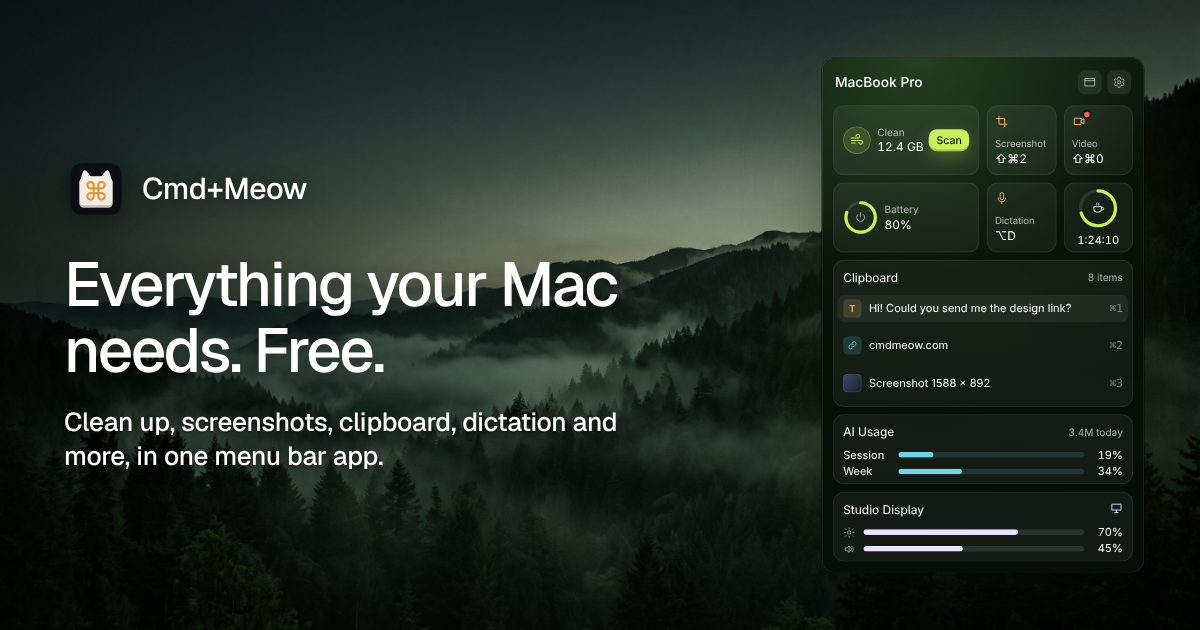
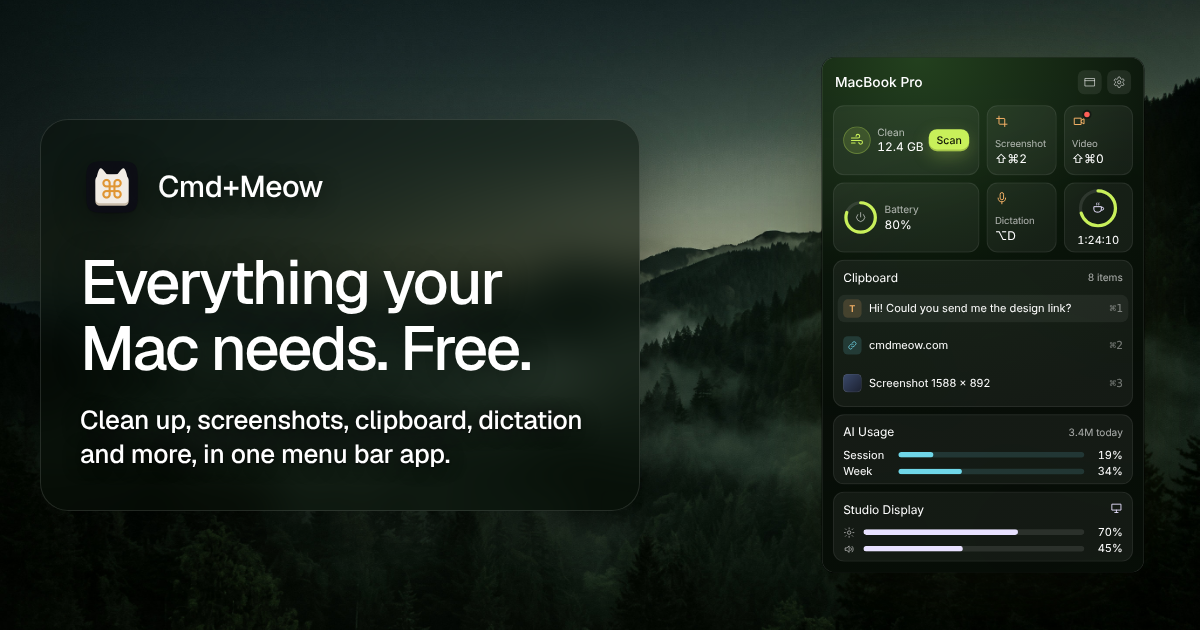
Site: CleanMyMac pill instead of the 'Instead of' row, Replay button instead of the counter, readable OG card
- Hero: the 'Instead of …' row is gone; 'CleanMyMac alternative' is the first pill
- Footer trademark line names only CleanMyMac
- 14→1 scene: no '14 apps → 1 app' counter; a Replay button sits inside the picture
- OG image: frosted panel behind the title so it reads on the wallpaper

Claude-Session: https://claude.ai/code/session_01384rfUvGjRvQfkWDC1s1ix

Changed region(s): [[0.0308, 0.181, 0.555, 0.8143]]

diff --git a/site/index.html b/site/index.html
@@ -20,9 +20,9 @@
 <link rel="preconnect" href="https://fonts.googleapis.com">
 <link rel="preconnect" href="https://fonts.gstatic.com" crossorigin>
 <link rel="stylesheet" href="https://fonts.googleapis.com/css2?family=Geist:wght@400;500;600&display=swap">
-<link rel="stylesheet" href="app.css?v=81">
-<link rel="stylesheet" href="style.css?v=81">
-<link rel="stylesheet" href="win.css?v=81">
+<link rel="stylesheet" href="app.css?v=82">
+<link rel="stylesheet" href="style.css?v=82">
+<link rel="stylesheet" href="win.css?v=82">
 <link rel="preload" as="image" href="desk.jpg" imagesrcset="desk-1376.jpg 1376w, desk.jpg 2752w" imagesizes="100vw">
 </head>
 <body>
@@ -35,7 +35,7 @@
     <div class="hero">
       <h1>Everything your Mac needs. Free.</h1>
       <p class="sub">Clean up, screenshots, clipboard, dictation and more, in one menu bar app.</p>
-      <div class="cta"><a class="btn pri" id="get" href="https://github.com/romanfurman6/cmdmeow/releases/latest/download/CmdMeow.dmg"><svg class="ph" width="18" height="18" viewBox="0 0 256 256" aria-hidden="true"><path d="M224,144v64a8,8,0,0,1-8,8H40a8,8,0,0,1-8-8V144a8,8,0,0,1,16,0v56H208V144a8,8,0,0,1,16,0Zm-101.66,5.66a8,8,0,0,0,11.32,0l40-40a8,8,0,0,0-11.32-11.32L136,124.69V32a8,8,0,0,0-16,0v92.69L93.66,98.34a8,8,0,0,0-11.32,11.32Z"/></svg>Download for Mac</a><a class="btn ghost" href="https://github.com/romanfurman6/cmdmeow"><svg class="ph" width="18" height="18" viewBox="0 0 256 256" aria-hidden="true"><path d="M208.31,75.68A59.78,59.78,0,0,0,202.93,28,8,8,0,0,0,196,24a59.75,59.75,0,0,0-48,24H124A59.75,59.75,0,0,0,76,24a8,8,0,0,0-6.93,4,59.78,59.78,0,0,0-5.38,47.68A58.14,58.14,0,0,0,56,104v8a56.06,56.06,0,0,0,48.44,55.47A39.8,39.8,0,0,0,96,192v8H72a24,24,0,0,1-24-24A40,40,0,0,0,8,136a8,8,0,0,0,0,16,24,24,0,0,1,24,24,40,40,0,0,0,40,40H96v16a8,8,0,0,0,16,0V192a24,24,0,0,1,48,0v40a8,8,0,0,0,16,0V192a39.8,39.8,0,0,0-8.44-24.53A56.06,56.06,0,0,0,216,112v-8A58.14,58.14,0,0,0,208.31,75.68ZM200,112a40,40,0,0,1-40,40H112a40,40,0,0,1-40-40v-8a41.74,41.74,0,0,1,6.9-22.48A8,8,0,0,0,80,73.83a43.81,43.81,0,0,1,.79-33.58,43.88,43.88,0,0,1,32.32,20.06A8,8,0,0,0,119.82,64h32.35a8,8,0,0,0,6.74-3.69,43.87,43.87,0,0,1,32.32-20.06A43.81,43.81,0,0,1,192,73.83a8.09,8.09,0,0,0,1,7.65A41.72,41.72,0,0,1,200,104Z"/></svg>GitHub</a></div><p class="alt">Instead of CleanMyMac · CleanShot X · Paste · iStat Menus · Wispr Flow · DaisyDisk · Loom</p><div class="facts"><span>No account</span><span>macOS 12+</span><a class="ver" href="https://github.com/romanfurman6/cmdmeow/releases/tag/v0.1.1">v0.1.1</a></div>
+      <div class="cta"><a class="btn pri" id="get" href="https://github.com/romanfurman6/cmdmeow/releases/latest/download/CmdMeow.dmg"><svg class="ph" width="18" height="18" viewBox="0 0 256 256" aria-hidden="true"><path d="M224,144v64a8,8,0,0,1-8,8H40a8,8,0,0,1-8-8V144a8,8,0,0,1,16,0v56H208V144a8,8,0,0,1,16,0Zm-101.66,5.66a8,8,0,0,0,11.32,0l40-40a8,8,0,0,0-11.32-11.32L136,124.69V32a8,8,0,0,0-16,0v92.69L93.66,98.34a8,8,0,0,0-11.32,11.32Z"/></svg>Download for Mac</a><a class="btn ghost" href="https://github.com/romanfurman6/cmdmeow"><svg class="ph" width="18" height="18" viewBox="0 0 256 256" aria-hidden="true"><path d="M208.31,75.68A59.78,59.78,0,0,0,202.93,28,8,8,0,0,0,196,24a59.75,59.75,0,0,0-48,24H124A59.75,59.75,0,0,0,76,24a8,8,0,0,0-6.93,4,59.78,59.78,0,0,0-5.38,47.68A58.14,58.14,0,0,0,56,104v8a56.06,56.06,0,0,0,48.44,55.47A39.8,39.8,0,0,0,96,192v8H72a24,24,0,0,1-24-24A40,40,0,0,0,8,136a8,8,0,0,0,0,16,24,24,0,0,1,24,24,40,40,0,0,0,40,40H96v16a8,8,0,0,0,16,0V192a24,24,0,0,1,48,0v40a8,8,0,0,0,16,0V192a39.8,39.8,0,0,0-8.44-24.53A56.06,56.06,0,0,0,216,112v-8A58.14,58.14,0,0,0,208.31,75.68ZM200,112a40,40,0,0,1-40,40H112a40,40,0,0,1-40-40v-8a41.74,41.74,0,0,1,6.9-22.48A8,8,0,0,0,80,73.83a43.81,43.81,0,0,1,.79-33.58,43.88,43.88,0,0,1,32.32,20.06A8,8,0,0,0,119.82,64h32.35a8,8,0,0,0,6.74-3.69,43.87,43.87,0,0,1,32.32-20.06A43.81,43.81,0,0,1,192,73.83a8.09,8.09,0,0,0,1,7.65A41.72,41.72,0,0,1,200,104Z"/></svg>GitHub</a></div><div class="facts"><span>CleanMyMac alternative</span><span>No account</span><span>macOS 12+</span><a class="ver" href="https://github.com/romanfurman6/cmdmeow/releases/tag/v0.1.1">v0.1.1</a></div>
     </div>
     <div class="drop"><div class="app pnl">
   <div class="ph2"><b>MacBook Pro</b><span class="ib"><svg class="i" width="14" height="14" viewBox="0 0 24 24" aria-hidden="true"><path d="M3 5h18v14H3zM3 9h18"/></svg></span><span class="ib"><svg class="i" width="14" height="14" viewBox="0 0 24 24" aria-hidden="true"><path d="M12.22 2h-.44a2 2 0 0 0-2 2v.18a2 2 0 0 1-1 1.73l-.43.25a2 2 0 0 1-2 0l-.15-.08a2 2 0 0 0-2.73.73l-.22.38a2 2 0 0 0 .73 2.73l.15.1a2 2 0 0 1 1 1.72v.51a2 2 0 0 1-1 1.74l-.15.09a2 2 0 0 0-.73 2.73l.22.38a2 2 0 0 0 2.73.73l.15-.08a2 2 0 0 1 2 0l.43.25a2 2 0 0 1 1 1.73V20a2 2 0 0 0 2 2h.44a2 2 0 0 0 2-2v-.18a2 2 0 0 1 1-1.73l.43-.25a2 2 0 0 1 2 0l.15.08a2 2 0 0 0 2.73-.73l.22-.39a2 2 0 0 0-.73-2.73l-.15-.08a2 2 0 0 1-1-1.74v-.5a2 2 0 0 1 1-1.74l.15-.09a2 2 0 0 0 .73-2.73l-.22-.38a2 2 0 0 0-2.73-.73l-.15.08a2 2 0 0 1-2 0l-.43-.25a2 2 0 0 1-1-1.73V4a2 2 0 0 0-2-2zM12 9a3 3 0 1 0 0 6 3 3 0 0 0 0-6z"/></svg></span></div>
@@ -45,7 +45,7 @@
   </div>
 </section>
 <main>
-<section class="repl wrap"><h2>One place for every task</h2><div class="bars" id="bars"><figure class="scr"><figcaption><b class="num" id="bars-n" aria-live="polite">14 apps</b><button type="button" class="replay" id="bars-again" hidden aria-label="Play again"><svg width="16" height="16" viewBox="0 0 24 24" aria-hidden="true"><path d="M4.5 12a7.5 7.5 0 1 0 2.2-5.3M4.5 4v4h4" fill="none" stroke="currentColor" stroke-width="1.8" stroke-linecap="round" stroke-linejoin="round"/></svg></button></figcaption><div class="mbx"><span class="mn"><b>Finder</b><span>File</span><span>Edit</span><span>View</span><span>Go</span></span><span class="icons"><span class="mi2 ap" title="Cleaner" data-i="0"><svg class="i" width="16" height="16" viewBox="0 0 24 24" aria-hidden="true"><path d="M3 8.5h10.5a3 3 0 1 0-3-3M3 12.5h15a3 3 0 1 1-3 3M3 16.5h6"/></svg></span><span class="mi2 ap" title="Disk map" data-i="1"><svg class="i" width="16" height="16" viewBox="0 0 24 24" aria-hidden="true"><path d="M3.5 3.5h17v17h-17zM10 3.5v17M10 12h10.5"/></svg></span><span class="mi2 ap" title="Uninstaller" data-i="2"><svg class="i" width="16" height="16" viewBox="0 0 24 24" aria-hidden="true"><path d="M4 6.5h16M9 6.5V4h6v2.5M6 6.5l1 14h10l1-14"/></svg></span><span class="mi2 ap" title="Startup items" data-i="3"><svg class="i" width="16" height="16" viewBox="0 0 24 24" aria-hidden="true"><path d="M12 3v8M6.6 6.6a7.5 7.5 0 1 0 10.8 0"/></svg></span><span class="mi2 ap" title="Monitor" data-i="4"><svg class="i" width="16" height="16" viewBox="0 0 24 24" aria-hidden="true"><path d="M3 12h4l2.5-7 5 14 2.5-7h4"/></svg></span><span class="mi2 ap" title="AI usage" data-i="5"><svg class="i" width="16" height="16" viewBox="0 0 24 24" aria-hidden="true"><path d="M4.5 18a8.5 8.5 0 1 1 15 0M12 14l4-5"/></svg></span><span class="mi2 ap" title="Fans" data-i="6"><svg class="i" width="16" height="16" viewBox="0 0 24 24" aria-hidden="true"><path d="M12 12c-1-4 0-8 3-8s3 5-3 8zm0 0c4-1 8 0 8 3s-5 3-8-3zm0 0c1 4 0 8-3 8s-3-5 3-8zm0 0c-4 1-8 0-8-3s5-3 8 3z"/></svg></span><span class="mi2 ap" title="Screenshot" data-i="7"><svg class="i" width="16" height="16" viewBox="0 0 24 24" aria-hidden="true"><path d="M7 3v13a1 1 0 0 0 1 1h13M17 21V8a1 1 0 0 0-1-1H3"/></svg></span><span class="mi2 ap" title="Recorder" data-i="8"><svg class="i" width="16" height="16" viewBox="0 0 24 24" aria-hidden="true"><path d="M3.5 6.5h12v11h-12zM15.5 10.5l5-3v9l-5-3"/></svg></span><span class="mi2 ap" title="Sharing" data-i="9"><svg class="i" width="16" height="16" viewBox="0 0 24 24" aria-hidden="true"><path d="M10 14a4 4 0 0 0 5.7 0l3-3a4 4 0 0 0-5.7-5.7l-1 1M14 10a4 4 0 0 0-5.7 0l-3 3a4 4 0 0 0 5.7 5.7l1-1"/></svg></span><span class="mi2 ap" title="Dictation" data-i="10"><svg class="i" width="16" height="16" viewBox="0 0 24 24" aria-hidden="true"><path d="M9 4.5a3 3 0 0 1 6 0v6.5a3 3 0 0 1-6 0zM5.5 11a6.5 6.5 0 0 0 13 0M12 17.5V21"/></svg></span><span class="mi2 ap" title="Clipboard" data-i="11"><svg class="i" width="16" height="16" viewBox="0 0 24 24" aria-hidden="true"><path d="M9 3.5h6v3H9zM9 5H5.5v15.5h13V5H15"/></svg></span><span class="mi2 ap" title="Awake" data-i="12"><svg class="i" width="16" height="16" viewBox="0 0 24 24" aria-hidden="true"><path d="M4 10h13v4.5a5 5 0 0 1-5 5H9a5 5 0 0 1-5-5zM17 11h1.5a2.5 2.5 0 0 1 0 5H17M9 3.5c-1 1 1 2 0 3.5M12.5 3.5c-1 1 1 2 0 3.5"/></svg></span><span class="mi2 ap" title="Displays" data-i="13"><svg class="i" width="16" height="16" viewBox="0 0 24 24" aria-hidden="true"><path d="M3.5 4.5h17v11h-17zM9 20h6M12 15.5V20"/></svg></span><span class="mi2 cat" title="Cmd+Meow"><svg width="17" height="17"><use href="#mark-line"/></svg></span><span class="mi2 sy"><svg class="i" width="16" height="16" viewBox="0 0 24 24" aria-hidden="true"><path d="M2.5 9a14 14 0 0 1 19 0M5.5 12.5a9.5 9.5 0 0 1 13 0M8.5 16a5 5 0 0 1 7 0M12 19.5h.01"/></svg></span><span class="mi2 sy bat"><i></i></span><span class="clk num">Thu 17:32</span></span><div class="mpn" aria-hidden="true"><div class="mph"><b>MacBook Pro</b></div><div class="wgrid"><div class="wg s2" data-i="0"><span class="wi wr" style="--g:#C8F05A"><svg width="40" height="40" viewBox="0 0 40 40"><circle cx="20" cy="20" r="16" class="rb"/><circle cx="20" cy="20" r="16" class="rf" style="--o:28.1" transform="rotate(-90 20 20)"/></svg><svg class="i" width="14" height="14" viewBox="0 0 24 24" aria-hidden="true"><path d="M3 8.5h10.5a3 3 0 1 0-3-3M3 12.5h15a3 3 0 1 1-3 3M3 16.5h6"/></svg></span><span class="wt"><span class="dm">Clean</span><b class="num">12.4 GB</b></span><span class="wbtn">Scan</span></div><div class="wg s1" data-i="7"><span class="wi" style="--g:#F7B267"><svg class="i" width="15" height="15" viewBox="0 0 24 24" aria-hidden="true"><path d="M7 3v13a1 1 0 0 0 1 1h13M17 21V8a1 1 0 0 0-1-1H3"/></svg></span><span class="wt"><span class="dm">Screenshot</span><b class="num">⇧⌘2</b></span></div><div class="wg s1" data-i="8"><span class="wi" style="--g:#F7B267"><svg class="i" width="15" height="15" viewBox="0 0 24 24" aria-hidden="true"><path d="M3.5 6.5h12v11h-12zM15.5 10.5l5-3v9l-5-3"/></svg><i class="rec"></i></span><span class="wt"><span class="dm">Video</span><b class="num">⇧⌘0</b></span></div><div class="wg s2" data-i="5"><span class="wi" style="--g:#6FD6E8"><svg class="i" width="16" height="16" viewBox="0 0 24 24" aria-hidden="true"><path d="M4.5 18a8.5 8.5 0 1 1 15 0M12 14l4-5"/></svg></span><span class="wt"><span class="dsh"><span class="dm">AI Usage</span><span class="num">19%</span></span><span class="aib"><i style="--w:19%"></i></span></span></div><div class="wg s1" data-i="4"><span class="wi wr" style="--g:#6FD6E8"><svg width="40" height="40" viewBox="0 0 40 40"><circle cx="20" cy="20" r="16" class="rb"/><circle cx="20" cy="20" r="16" class="rf" style="--o:76.4" transform="rotate(-90 20 20)"/></svg><svg class="i" width="14" height="14" viewBox="0 0 24 24" aria-hidden="true"><path d="M3 12h4l2.5-7 5 14 2.5-7h4"/></svg></span><span class="wt"><span class="dm">CPU</span><b class="num">24%</b></span></div><div class="wg s1" data-i="6"><span class="wi" style="--g:#6FD6E8"><svg class="i" width="15" height="15" viewBox="0 0 24 24" aria-hidden="true"><path d="M12 12c-1-4 0-8 3-8s3 5-3 8zm0 0c4-1 8 0 8 3s-5 3-8-3zm0 0c1 4 0 8-3 8s-3-5 3-8zm0 0c-4 1-8 0-8-3s5-3 8 3z"/></svg></span><span class="wt"><span class="dm">Fans</span><b class="num">2 225</b></span></div><div class="wg s1" data-i="1"><span class="wi wr" style="--g:#C8F05A"><svg width="40" height="40" viewBox="0 0 40 40" aria-hidden="true"><circle class="rb" cx="20" cy="20" r="16"/><circle class="rf" cx="20" cy="20" r="16" style="--o:38.2" transform="rotate(-90 20 20)"/></svg><svg class="i" width="14" height="14" viewBox="0 0 24 24" aria-hidden="true"><path d="M3.5 3.5h17v17h-17zM10 3.5v17M10 12h10.5"/></svg></span><span class="wt"><span class="dm">Disk</span><b class="num">62%</b></span></div><div class="wg s1" data-i="2"><span class="wi" style="--g:#C8F05A"><svg class="i" width="15" height="15" viewBox="0 0 24 24" aria-hidden="true"><path d="M4 6.5h16M9 6.5V4h6v2.5M6 6.5l1 14h10l1-14"/></svg></span><span class="wt"><span class="dm">Uninstall</span><b class="num">3 apps</b></span></div><div class="wg s1" data-i="3"><span class="wi" style="--g:#C8F05A"><svg class="i" width="16" height="16" viewBox="0 0 24 24" aria-hidden="true"><path d="M12 3v8M6.6 6.6a7.5 7.5 0 1 0 10.8 0"/></svg></span><span class="wt"><span class="dm">Startup</span><b class="num">9 items</b></span></div><div class="wg s1" data-i="12"><span class="wi wr" style="--g:#C8F05A"><svg width="40" height="40" viewBox="0 0 40 40"><circle cx="20" cy="20" r="16" class="rb"/><circle cx="20" cy="20" r="16" class="rf" style="--o:0.0" transform="rotate(-90 20 20)"/></svg><svg class="i" width="14" height="14" viewBox="0 0 24 24" aria-hidden="true"><path d="M4 10h13v4.5a5 5 0 0 1-5 5H9a5 5 0 0 1-5-5zM17 11h1.5a2.5 2.5 0 0 1 0 5H17M9 3.5c-1 1 1 2 0 3.5M12.5 3.5c-1 1 1 2 0 3.5"/></svg></span><span class="wt"><span class="dm">Awake</span><b class="num">1:24</b></span></div><div class="wg s1" data-i="11"><span class="wi" style="--g:#F7B267"><svg class="i" width="15" height="15" viewBox="0 0 24 24" aria-hidden="true"><path d="M9 3.5h6v3H9zM9 5H5.5v15.5h13V5H15"/></svg></span><span class="wt"><span class="dm">Clipboard</span><b class="num">8 items</b></span></div><div class="wg s1" data-i="10"><span class="wi" style="--g:#F7B267"><svg class="i" width="15" height="15" viewBox="0 0 24 24" aria-hidden="true"><path d="M9 4.5a3 3 0 0 1 6 0v6.5a3 3 0 0 1-6 0zM5.5 11a6.5 6.5 0 0 0 13 0M12 17.5V21"/></svg></span><span class="wt"><span class="dm">Dictation</span><span class="wave2"><i></i><i></i><i></i><i></i><i></i></span></span></div><div class="wg s1" data-i="9"><span class="wi" style="--g:#F7B267"><svg class="i" width="16" height="16" viewBox="0 0 24 24" aria-hidden="true"><path d="M10 14a4 4 0 0 0 5.7 0l3-3a4 4 0 0 0-5.7-5.7l-1 1M14 10a4 4 0 0 0-5.7 0l-3 3a4 4 0 0 0 5.7 5.7l1-1"/></svg></span><span class="wt"><span class="dm">Sharing</span><b class="num">3 links</b></span></div><div class="wg s1" data-i="13"><span class="wi" style="--g:#E8E1FF"><svg class="i" width="16" height="16" viewBox="0 0 24 24" aria-hidden="true"><path d="M3.5 4.5h17v11h-17zM9 20h6M12 15.5V20"/></svg></span><span class="wt"><span class="dm">Display</span><b class="num">70%</b></span></div></div></div></div></figure></div></section>
+<section class="repl wrap"><h2>One place for every task</h2><div class="bars" id="bars"><figure class="scr"><div class="mbx"><span class="mn"><b>Finder</b><span>File</span><span>Edit</span><span>View</span><span>Go</span></span><span class="icons"><span class="mi2 ap" title="Cleaner" data-i="0"><svg class="i" width="16" height="16" viewBox="0 0 24 24" aria-hidden="true"><path d="M3 8.5h10.5a3 3 0 1 0-3-3M3 12.5h15a3 3 0 1 1-3 3M3 16.5h6"/></svg></span><span class="mi2 ap" title="Disk map" data-i="1"><svg class="i" width="16" height="16" viewBox="0 0 24 24" aria-hidden="true"><path d="M3.5 3.5h17v17h-17zM10 3.5v17M10 12h10.5"/></svg></span><span class="mi2 ap" title="Uninstaller" data-i="2"><svg class="i" width="16" height="16" viewBox="0 0 24 24" aria-hidden="true"><path d="M4 6.5h16M9 6.5V4h6v2.5M6 6.5l1 14h10l1-14"/></svg></span><span class="mi2 ap" title="Startup items" data-i="3"><svg class="i" width="16" height="16" viewBox="0 0 24 24" aria-hidden="true"><path d="M12 3v8M6.6 6.6a7.5 7.5 0 1 0 10.8 0"/></svg></span><span class="mi2 ap" title="Monitor" data-i="4"><svg class="i" width="16" height="16" viewBox="0 0 24 24" aria-hidden="true"><path d="M3 12h4l2.5-7 5 14 2.5-7h4"/></svg></span><span class="mi2 ap" title="AI usage" data-i="5"><svg class="i" width="16" height="16" viewBox="0 0 24 24" aria-hidden="true"><path d="M4.5 18a8.5 8.5 0 1 1 15 0M12 14l4-5"/></svg></span><span class="mi2 ap" title="Fans" data-i="6"><svg class="i" width="16" height="16" viewBox="0 0 24 24" aria-hidden="true"><path d="M12 12c-1-4 0-8 3-8s3 5-3 8zm0 0c4-1 8 0 8 3s-5 3-8-3zm0 0c1 4 0 8-3 8s-3-5 3-8zm0 0c-4 1-8 0-8-3s5-3 8 3z"/></svg></span><span class="mi2 ap" title="Screenshot" data-i="7"><svg class="i" width="16" height="16" viewBox="0 0 24 24" aria-hidden="true"><path d="M7 3v13a1 1 0 0 0 1 1h13M17 21V8a1 1 0 0 0-1-1H3"/></svg></span><span class="mi2 ap" title="Recorder" data-i="8"><svg class="i" width="16" height="16" viewBox="0 0 24 24" aria-hidden="true"><path d="M3.5 6.5h12v11h-12zM15.5 10.5l5-3v9l-5-3"/></svg></span><span class="mi2 ap" title="Sharing" data-i="9"><svg class="i" width="16" height="16" viewBox="0 0 24 24" aria-hidden="true"><path d="M10 14a4 4 0 0 0 5.7 0l3-3a4 4 0 0 0-5.7-5.7l-1 1M14 10a4 4 0 0 0-5.7 0l-3 3a4 4 0 0 0 5.7 5.7l1-1"/></svg></span><span class="mi2 ap" title="Dictation" data-i="10"><svg class="i" width="16" height="16" viewBox="0 0 24 24" aria-hidden="true"><path d="M9 4.5a3 3 0 0 1 6 0v6.5a3 3 0 0 1-6 0zM5.5 11a6.5 6.5 0 0 0 13 0M12 17.5V21"/></svg></span><span class="mi2 ap" title="Clipboard" data-i="11"><svg class="i" width="16" height="16" viewBox="0 0 24 24" aria-hidden="true"><path d="M9 3.5h6v3H9zM9 5H5.5v15.5h13V5H15"/></svg></span><span class="mi2 ap" title="Awake" data-i="12"><svg class="i" width="16" height="16" viewBox="0 0 24 24" aria-hidden="true"><path d="M4 10h13v4.5a5 5 0 0 1-5 5H9a5 5 0 0 1-5-5zM17 11h1.5a2.5 2.5 0 0 1 0 5H17M9 3.5c-1 1 1 2 0 3.5M12.5 3.5c-1 1 1 2 0 3.5"/></svg></span><span class="mi2 ap" title="Displays" data-i="13"><svg class="i" width="16" height="16" viewBox="0 0 24 24" aria-hidden="true"><path d="M3.5 4.5h17v11h-17zM9 20h6M12 15.5V20"/></svg></span><span class="mi2 cat" title="Cmd+Meow"><svg width="17" height="17"><use href="#mark-line"/></svg></span><span class="mi2 sy"><svg class="i" width="16" height="16" viewBox="0 0 24 24" aria-hidden="true"><path d="M2.5 9a14 14 0 0 1 19 0M5.5 12.5a9.5 9.5 0 0 1 13 0M8.5 16a5 5 0 0 1 7 0M12 19.5h.01"/></svg></span><span class="mi2 sy bat"><i></i></span><span class="clk num">Thu 17:32</span></span><button type="button" class="replay" id="bars-again" hidden><svg width="14" height="14" viewBox="0 0 24 24" aria-hidden="true"><path d="M4.5 12a7.5 7.5 0 1 0 2.2-5.3M4.5 4v4h4" fill="none" stroke="currentColor" stroke-width="2" stroke-linecap="round" stroke-linejoin="round"/></svg>Replay</button><div class="mpn" aria-hidden="true"><div class="mph"><b>MacBook Pro</b></div><div class="wgrid"><div class="wg s2" data-i="0"><span class="wi wr" style="--g:#C8F05A"><svg width="40" height="40" viewBox="0 0 40 40"><circle cx="20" cy="20" r="16" class="rb"/><circle cx="20" cy="20" r="16" class="rf" style="--o:28.1" transform="rotate(-90 20 20)"/></svg><svg class="i" width="14" height="14" viewBox="0 0 24 24" aria-hidden="true"><path d="M3 8.5h10.5a3 3 0 1 0-3-3M3 12.5h15a3 3 0 1 1-3 3M3 16.5h6"/></svg></span><span class="wt"><span class="dm">Clean</span><b class="num">12.4 GB</b></span><span class="wbtn">Scan</span></div><div class="wg s1" data-i="7"><span class="wi" style="--g:#F7B267"><svg class="i" width="15" height="15" viewBox="0 0 24 24" aria-hidden="true"><path d="M7 3v13a1 1 0 0 0 1 1h13M17 21V8a1 1 0 0 0-1-1H3"/></svg></span><span class="wt"><span class="dm">Screenshot</span><b class="num">⇧⌘2</b></span></div><div class="wg s1" data-i="8"><span class="wi" style="--g:#F7B267"><svg class="i" width="15" height="15" viewBox="0 0 24 24" aria-hidden="true"><path d="M3.5 6.5h12v11h-12zM15.5 10.5l5-3v9l-5-3"/></svg><i class="rec"></i></span><span class="wt"><span class="dm">Video</span><b class="num">⇧⌘0</b></span></div><div class="wg s2" data-i="5"><span class="wi" style="--g:#6FD6E8"><svg class="i" width="16" height="16" viewBox="0 0 24 24" aria-hidden="true"><path d="M4.5 18a8.5 8.5 0 1 1 15 0M12 14l4-5"/></svg></span><span class="wt"><span class="dsh"><span class="dm">AI Usage</span><span class="num">19%</span></span><span class="aib"><i style="--w:19%"></i></span></span></div><div class="wg s1" data-i="4"><span class="wi wr" style="--g:#6FD6E8"><svg width="40" height="40" viewBox="0 0 40 40"><circle cx="20" cy="20" r="16" class="rb"/><circle cx="20" cy="20" r="16" class="rf" style="--o:76.4" transform="rotate(-90 20 20)"/></svg><svg class="i" width="14" height="14" viewBox="0 0 24 24" aria-hidden="true"><path d="M3 12h4l2.5-7 5 14 2.5-7h4"/></svg></span><span class="wt"><span class="dm">CPU</span><b class="num">24%</b></span></div><div class="wg s1" data-i="6"><span class="wi" style="--g:#6FD6E8"><svg class="i" width="15" height="15" viewBox="0 0 24 24" aria-hidden="true"><path d="M12 12c-1-4 0-8 3-8s3 5-3 8zm0 0c4-1 8 0 8 3s-5 3-8-3zm0 0c1 4 0 8-3 8s-3-5 3-8zm0 0c-4 1-8 0-8-3s5-3 8 3z"/></svg></span><span class="wt"><span class="dm">Fans</span><b class="num">2 225</b></span></div><div class="wg s1" data-i="1"><span class="wi wr" style="--g:#C8F05A"><svg width="40" height="40" viewBox="0 0 40 40" aria-hidden="true"><circle class="rb" cx="20" cy="20" r="16"/><circle class="rf" cx="20" cy="20" r="16" style="--o:38.2" transform="rotate(-90 20 20)"/></svg><svg class="i" width="14" height="14" viewBox="0 0 24 24" aria-hidden="true"><path d="M3.5 3.5h17v17h-17zM10 3.5v17M10 12h10.5"/></svg></span><span class="wt"><span class="dm">Disk</span><b class="num">62%</b></span></div><div class="wg s1" data-i="2"><span class="wi" style="--g:#C8F05A"><svg class="i" width="15" height="15" viewBox="0 0 24 24" aria-hidden="true"><path d="M4 6.5h16M9 6.5V4h6v2.5M6 6.5l1 14h10l1-14"/></svg></span><span class="wt"><span class="dm">Uninstall</span><b class="num">3 apps</b></span></div><div class="wg s1" data-i="3"><span class="wi" style="--g:#C8F05A"><svg class="i" width="16" height="16" viewBox="0 0 24 24" aria-hidden="true"><path d="M12 3v8M6.6 6.6a7.5 7.5 0 1 0 10.8 0"/></svg></span><span class="wt"><span class="dm">Startup</span><b class="num">9 items</b></span></div><div class="wg s1" data-i="12"><span class="wi wr" style="--g:#C8F05A"><svg width="40" height="40" viewBox="0 0 40 40"><circle cx="20" cy="20" r="16" class="rb"/><circle cx="20" cy="20" r="16" class="rf" style="--o:0.0" transform="rotate(-90 20 20)"/></svg><svg class="i" width="14" height="14" viewBox="0 0 24 24" aria-hidden="true"><path d="M4 10h13v4.5a5 5 0 0 1-5 5H9a5 5 0 0 1-5-5zM17 11h1.5a2.5 2.5 0 0 1 0 5H17M9 3.5c-1 1 1 2 0 3.5M12.5 3.5c-1 1 1 2 0 3.5"/></svg></span><span class="wt"><span class="dm">Awake</span><b class="num">1:24</b></span></div><div class="wg s1" data-i="11"><span class="wi" style="--g:#F7B267"><svg class="i" width="15" height="15" viewBox="0 0 24 24" aria-hidden="true"><path d="M9 3.5h6v3H9zM9 5H5.5v15.5h13V5H15"/></svg></span><span class="wt"><span class="dm">Clipboard</span><b class="num">8 items</b></span></div><div class="wg s1" data-i="10"><span class="wi" style="--g:#F7B267"><svg class="i" width="15" height="15" viewBox="0 0 24 24" aria-hidden="true"><path d="M9 4.5a3 3 0 0 1 6 0v6.5a3 3 0 0 1-6 0zM5.5 11a6.5 6.5 0 0 0 13 0M12 17.5V21"/></svg></span><span class="wt"><span class="dm">Dictation</span><span class="wave2"><i></i><i></i><i></i><i></i><i></i></span></span></div><div class="wg s1" data-i="9"><span class="wi" style="--g:#F7B267"><svg class="i" width="16" height="16" viewBox="0 0 24 24" aria-hidden="true"><path d="M10 14a4 4 0 0 0 5.7 0l3-3a4 4 0 0 0-5.7-5.7l-1 1M14 10a4 4 0 0 0-5.7 0l-3 3a4 4 0 0 0 5.7 5.7l1-1"/></svg></span><span class="wt"><span class="dm">Sharing</span><b class="num">3 links</b></span></div><div class="wg s1" data-i="13"><span class="wi" style="--g:#E8E1FF"><svg class="i" width="16" height="16" viewBox="0 0 24 24" aria-hidden="true"><path d="M3.5 4.5h17v11h-17zM9 20h6M12 15.5V20"/></svg></span><span class="wt"><span class="dm">Display</span><b class="num">70%</b></span></div></div></div></div></figure></div></section>
 <section class="switcher wrap">
   <div class="appw"><div class="app" id="app">
     <nav class="sb" aria-label="Tools"><div class="tl3"><i></i><i></i><i></i></div><div class="brand"><svg width="18" height="18"><use href="#mark"/></svg>Cmd+Meow</div><div class="tabs"><div class="sg g-clean"><span class="gd"></span>Clean</div><button type="button" class="nv on" data-p="cleanup" aria-pressed="true"><svg class="i" width="16" height="16" viewBox="0 0 24 24" aria-hidden="true"><path d="M3 8.5h10.5a3 3 0 1 0-3-3M3 12.5h15a3 3 0 1 1-3 3M3 16.5h6"/></svg><span>Cleanup</span><span class="bd num">18.3 GB</span></button><button type="button" class="nv" data-p="diskmap" aria-pressed="false"><svg class="i" width="16" height="16" viewBox="0 0 24 24" aria-hidden="true"><path d="M3.5 3.5h17v17h-17zM10 3.5v17M10 12h10.5"/></svg><span>Disk Map</span><span class="bd num"></span></button><button type="button" class="nv" data-p="uninstall" aria-pressed="false"><svg class="i" width="16" height="16" viewBox="0 0 24 24" aria-hidden="true"><path d="M4 6.5h16M9 6.5V4h6v2.5M6 6.5l1 14h10l1-14"/></svg><span>Uninstaller</span><span class="bd num">10</span></button><button type="button" class="nv" data-p="startup" aria-pressed="false"><svg class="i" width="16" height="16" viewBox="0 0 24 24" aria-hidden="true"><path d="M12 3v8M6.6 6.6a7.5 7.5 0 1 0 10.8 0"/></svg><span>Startup</span><span class="bd num">4</span></button><div class="sg g-mon"><span class="gd"></span>Monitor</div><button type="button" class="nv" data-p="health" aria-pressed="false"><svg class="i" width="16" height="16" viewBox="0 0 24 24" aria-hidden="true"><path d="M3 12h4l2.5-7 5 14 2.5-7h4"/></svg><span>Mac Health</span><span class="bd num"></span></button><button type="button" class="nv" data-p="claude" aria-pressed="false"><svg class="i" width="16" height="16" viewBox="0 0 24 24" aria-hidden="true"><path d="M4.5 18a8.5 8.5 0 1 1 15 0M12 14l4-5"/></svg><span>AI Usage</span><span class="bd num">19%</span></button><button type="button" class="nv" data-p="fans" aria-pressed="false"><svg class="i" width="16" height="16" viewBox="0 0 24 24" aria-hidden="true"><path d="M12 12c-1-4 0-8 3-8s3 5-3 8zm0 0c4-1 8 0 8 3s-5 3-8-3zm0 0c1 4 0 8-3 8s-3-5 3-8zm0 0c-4 1-8 0-8-3s5-3 8 3z"/></svg><span>Fan Control</span><span class="bd num" id="sb-rpm">2 225</span></button><div class="sg g-make"><span class="gd"></span>Create</div><button type="button" class="nv" data-p="capture" aria-pressed="false"><svg class="i" width="16" height="16" viewBox="0 0 24 24" aria-hidden="true"><path d="M7 3v13a1 1 0 0 0 1 1h13M17 21V8a1 1 0 0 0-1-1H3"/></svg><span>Screenshot</span><span class="bd num">⇧⌘2</span></button><button type="button" class="nv" data-p="video" aria-pressed="false"><svg class="i" width="16" height="16" viewBox="0 0 24 24" aria-hidden="true"><path d="M3.5 6.5h12v11h-12zM15.5 10.5l5-3v9l-5-3"/></svg><span>Video</span><span class="bd num">⇧⌘0</span></button><button type="button" class="nv" data-p="sharing" aria-pressed="false"><svg class="i" width="16" height="16" viewBox="0 0 24 24" aria-hidden="true"><path d="M10 14a4 4 0 0 0 5.7 0l3-3a4 4 0 0 0-5.7-5.7l-1 1M14 10a4 4 0 0 0-5.7 0l-3 3a4 4 0 0 0 5.7 5.7l1-1"/></svg><span>Sharing</span><span class="bd num"></span></button><button type="button" class="nv" data-p="dictation" aria-pressed="false"><svg class="i" width="16" height="16" viewBox="0 0 24 24" aria-hidden="true"><path d="M9 4.5a3 3 0 0 1 6 0v6.5a3 3 0 0 1-6 0zM5.5 11a6.5 6.5 0 0 0 13 0M12 17.5V21"/></svg><span>Dictation</span><span class="bd num">⌥D</span></button><button type="button" class="nv" data-p="clipboard" aria-pressed="false"><svg class="i" width="16" height="16" viewBox="0 0 24 24" aria-hidden="true"><path d="M9 3.5h6v3H9zM9 5H5.5v15.5h13V5H15"/></svg><span>Clipboard</span><span class="bd num"></span></button><div class="sg g-util"><span class="gd"></span>Utilities</div><button type="button" class="nv" data-p="awake" aria-pressed="false"><svg class="i" width="16" height="16" viewBox="0 0 24 24" aria-hidden="true"><path d="M4 10h13v4.5a5 5 0 0 1-5 5H9a5 5 0 0 1-5-5zM17 11h1.5a2.5 2.5 0 0 1 0 5H17M9 3.5c-1 1 1 2 0 3.5M12.5 3.5c-1 1 1 2 0 3.5"/></svg><span>Keep Awake</span><span class="bd num">Claude</span></button><button type="button" class="nv" data-p="displays" aria-pressed="false"><svg class="i" width="16" height="16" viewBox="0 0 24 24" aria-hidden="true"><path d="M3.5 4.5h17v11h-17zM9 20h6M12 15.5V20"/></svg><span>Displays</span><span class="bd num">2</span></button></div><div class="sbf"><span class="nv"><svg class="i" width="16" height="16" viewBox="0 0 24 24" aria-hidden="true"><path d="M12.22 2h-.44a2 2 0 0 0-2 2v.18a2 2 0 0 1-1 1.73l-.43.25a2 2 0 0 1-2 0l-.15-.08a2 2 0 0 0-2.73.73l-.22.38a2 2 0 0 0 .73 2.73l.15.1a2 2 0 0 1 1 1.72v.51a2 2 0 0 1-1 1.74l-.15.09a2 2 0 0 0-.73 2.73l.22.38a2 2 0 0 0 2.73.73l.15-.08a2 2 0 0 1 2 0l.43.25a2 2 0 0 1 1 1.73V20a2 2 0 0 0 2 2h.44a2 2 0 0 0 2-2v-.18a2 2 0 0 1 1-1.73l.43-.25a2 2 0 0 1 2 0l.15.08a2 2 0 0 0 2.73-.73l.22-.39a2 2 0 0 0-.73-2.73l-.15-.08a2 2 0 0 1-1-1.74v-.5a2 2 0 0 1 1-1.74l.15-.09a2 2 0 0 0 .73-2.73l-.22-.38a2 2 0 0 0-2.73-.73l-.15.08a2 2 0 0 1-2 0l-.43-.25a2 2 0 0 1-1-1.73V4a2 2 0 0 0-2-2zM12 9a3 3 0 1 0 0 6 3 3 0 0 0 0-6z"/></svg><span>Settings</span></span><span class="nv"><svg class="i" width="16" height="16" viewBox="0 0 24 24" aria-hidden="true"><path d="M3 5h18v14H3zM3 9h18"/></svg><span>Menu bar panel</span></span></div></nav>
@@ -69,14 +69,14 @@
 </section>
 <section class="trust wrap"><h2>No catch</h2><ul class="tl"><li><span class="kc num">$0</span><span class="tx"><b>Free</b><span>No trial, no subscription</span></span></li><li><span class="kc num">MIT</span><span class="tx"><b>Open</b><span>Every line on GitHub</span></span></li><li><span class="kc num">0 B</span><span class="tx"><b>Private</b><span>Nothing leaves your Mac unless you share</span></span></li><li><span class="kc">↩</span><span class="tx"><b>Trash first</b><span>Changed your mind? Put it back</span></span></li><li class="wide"><span class="kc num">14→1</span><span class="tx"><b>One</b><span>14 tools in one icon</span></span></li></ul></section>
 </main>
-<footer class="foot wrap"><div class="fr1"><span class="ftb"><svg width="18" height="18"><use href="#mark"/></svg>Cmd+Meow</span><nav class="ftl"><a href="https://github.com/romanfurman6/cmdmeow/releases/latest">Releases</a><a href="https://github.com/romanfurman6/cmdmeow/blob/main/LICENSE">MIT License</a><a class="gh" href="https://github.com/romanfurman6/cmdmeow"><svg width="16" height="16" viewBox="0 0 16 16" fill="currentColor" aria-hidden="true"><path d="M8 0C3.58 0 0 3.58 0 8c0 3.54 2.29 6.53 5.47 7.59.4.07.55-.17.55-.38 0-.19-.01-.82-.01-1.49-2.01.37-2.53-.49-2.69-.94-.09-.23-.48-.94-.82-1.13-.28-.15-.68-.52-.01-.53.63-.01 1.08.58 1.23.82.72 1.21 1.87.87 2.33.66.07-.52.28-.87.51-1.07-1.78-.2-3.64-.89-3.64-3.95 0-.87.31-1.59.82-2.15-.08-.2-.36-1.02.08-2.12 0 0 .67-.21 2.2.82.64-.18 1.32-.27 2-.27.68 0 1.36.09 2 .27 1.53-1.04 2.2-.82 2.2-.82.44 1.1.16 1.92.08 2.12.51.56.82 1.27.82 2.15 0 3.07-1.87 3.75-3.65 3.95.29.25.54.73.54 1.48 0 1.07-.01 1.93-.01 2.2 0 .21.15.46.55.38A8.013 8.013 0 0016 8c0-4.42-3.58-8-8-8z"/></svg>GitHub</a></nav></div><small class="tm">CleanMyMac, Loom, CleanShot X, Paste, iStat Menus, Wispr Flow and DaisyDisk are trademarks of their owners. Not affiliated.</small></footer>
+<footer class="foot wrap"><div class="fr1"><span class="ftb"><svg width="18" height="18"><use href="#mark"/></svg>Cmd+Meow</span><nav class="ftl"><a href="https://github.com/romanfurman6/cmdmeow/releases/latest">Releases</a><a href="https://github.com/romanfurman6/cmdmeow/blob/main/LICENSE">MIT License</a><a class="gh" href="https://github.com/romanfurman6/cmdmeow"><svg width="16" height="16" viewBox="0 0 16 16" fill="currentColor" aria-hidden="true"><path d="M8 0C3.58 0 0 3.58 0 8c0 3.54 2.29 6.53 5.47 7.59.4.07.55-.17.55-.38 0-.19-.01-.82-.01-1.49-2.01.37-2.53-.49-2.69-.94-.09-.23-.48-.94-.82-1.13-.28-.15-.68-.52-.01-.53.63-.01 1.08.58 1.23.82.72 1.21 1.87.87 2.33.66.07-.52.28-.87.51-1.07-1.78-.2-3.64-.89-3.64-3.95 0-.87.31-1.59.82-2.15-.08-.2-.36-1.02.08-2.12 0 0 .67-.21 2.2.82.64-.18 1.32-.27 2-.27.68 0 1.36.09 2 .27 1.53-1.04 2.2-.82 2.2-.82.44 1.1.16 1.92.08 2.12.51.56.82 1.27.82 2.15 0 3.07-1.87 3.75-3.65 3.95.29.25.54.73.54 1.48 0 1.07-.01 1.93-.01 2.2 0 .21.15.46.55.38A8.013 8.013 0 0016 8c0-4.42-3.58-8-8-8z"/></svg>GitHub</a></nav></div><small class="tm">CleanMyMac is a trademark of its owner. Not affiliated.</small></footer>
 <svg width="0" height="0" style="position:absolute" aria-hidden="true"><defs>
 <symbol id="mark" viewBox="0 0 100 100"><g fill="currentColor"><path d="M14 36C16 22 22 10 27 8C31 7 36 15 41 22H30Z"/><path d="M86 36C84 22 78 10 73 8C69 7 64 15 59 22H70Z"/><rect x="12" y="20" width="76" height="72" rx="17"/></g>
 <path d="M42 44V72M58 44V72M36 50H64M36 66H64M42 44A6 6 0 1 0 36 50M58 44A6 6 0 1 1 64 50M36 66A6 6 0 1 0 42 72M64 66A6 6 0 1 1 58 72" fill="none" stroke="#E8A33D" stroke-width="6.5" stroke-linecap="round"/></symbol>
 <symbol id="mark-line" viewBox="0 0 100 100"><g fill="none" stroke="currentColor" stroke-width="7" stroke-linejoin="round"><path d="M16 34C18 22 23 12 27 11C30 10 34 16 38 22M84 34C82 22 77 12 73 11C70 10 66 16 62 22"/><rect x="14" y="22" width="72" height="68" rx="16"/></g>
 <path d="M42 44V72M58 44V72M36 50H64M36 66H64M42 44A6 6 0 1 0 36 50M58 44A6 6 0 1 1 64 50M36 66A6 6 0 1 0 42 72M64 66A6 6 0 1 1 58 72" fill="none" stroke="currentColor" stroke-width="7" stroke-linecap="round"/></symbol>
 </defs></svg>
-<script src="site.js?v=81"></script>
-<script src="play.js?v=81"></script>
+<script src="site.js?v=82"></script>
+<script src="play.js?v=82"></script>
 </body>
 </html>

diff --git a/site/style.css b/site/style.css
@@ -110,7 +110,6 @@ h1 { font: 500 68px/72px var(--sans); letter-spacing: -.035em; text-shadow: 0 2p
 
 /* Message: subline and facts under the headline */
 .hero .sub { margin-top: 24px; max-width: 640px; font-size: 28px; line-height: 36px; letter-spacing: -.01em; font-weight: 500; color: #fff; text-shadow: 0 1px 2px rgba(0,0,0,.55), 0 2px 18px rgba(0,0,0,.65); }
-.hero .alt { margin-top: 20px; width: max-content; max-width: min(640px, 100%); text-wrap: balance; font-size: 14px; line-height: 22px; font-weight: 500; color: rgba(255,255,255,.78); text-shadow: 0 1px 2px rgba(0,0,0,.6), 0 2px 14px rgba(0,0,0,.6); }
 .facts { display: flex; flex-wrap: wrap; gap: 8px; align-items: center; margin-top: 20px; font-size: 14px; line-height: 20px; font-weight: 500; color: #fff; }
 .facts > span, .facts .ver { display: inline-flex; align-items: center; gap: 7px; height: 32px; padding: 0 12px; border-radius: 16px; background: rgba(8,12,8,.62); box-shadow: inset 0 0 0 1px rgba(255,255,255,.12); backdrop-filter: blur(10px); -webkit-backdrop-filter: blur(10px); }
 .facts .ver { color: var(--lime); text-decoration: none; } .facts > span::before { content: ""; width: 5px; height: 5px; border-radius: 3px; background: var(--lime); }
@@ -122,11 +121,8 @@ h1 { font: 500 68px/72px var(--sans); letter-spacing: -.035em; text-shadow: 0 2p
 .lead { margin-top: 12px; max-width: 640px; font-size: 18px; line-height: 28px; color: var(--ink2); }
 .bars { margin-top: 40px; }
 .scr { display: flex; flex-direction: column; gap: 12px; min-width: 0; }
-.scr figcaption { display: flex; align-items: center; gap: 12px; min-height: 48px; }
-.scr figcaption b { font: 500 40px/48px var(--sans); letter-spacing: -.02em; }
-.bars.b-done #bars-n { color: var(--lime); }
-.replay { display: grid; place-items: center; width: 32px; height: 32px; padding: 0; border: 0; border-radius: 16px; background: rgba(255,255,255,.08); color: var(--ink2); cursor: pointer; transition: background-color .15s, color .15s; }
-.replay:hover { background: rgba(255,255,255,.14); color: var(--ink); }
+.replay { position: absolute; z-index: 2; left: 16px; bottom: 16px; display: inline-flex; align-items: center; gap: 6px; height: 30px; padding: 0 12px; border: 0; border-radius: 15px; background: rgba(8,12,8,.62); box-shadow: inset 0 0 0 1px rgba(255,255,255,.14); backdrop-filter: blur(10px); -webkit-backdrop-filter: blur(10px); color: #fff; font: 500 13px var(--sans); cursor: pointer; transition: background-color .15s; }
+.replay:hover { background: rgba(8,12,8,.8); }
 .replay[hidden] { display: none; }
 .mbx { position: relative; height: 480px; border-radius: 16px; overflow: hidden; background: url(desk.jpg) center 45%/cover; box-shadow: inset 0 0 0 1px var(--hair); font: 500 13px/1 -apple-system, var(--sans); }
 .mbx::before { content: ""; position: absolute; inset: 0 0 auto; height: 32px; background: rgba(10,14,10,.45); backdrop-filter: blur(20px); -webkit-backdrop-filter: blur(20px); }
@@ -192,8 +188,6 @@ h1 { font: 500 68px/72px var(--sans); letter-spacing: -.035em; text-shadow: 0 2p
 .mbx .icons .mi2.ap + .mi2.ap { margin-left: 2px; }
 .wi:not(.wr) > .i { width: 15px; height: 15px; }
 .wg.s2 .wt { flex: 1; }
-#bars-n { display: inline-block; transition: transform .3s ease, opacity .3s ease; }
-#bars-n.flip { transform: translateY(-8px); opacity: 0; }
 .mi2 { flex: none; display: grid; place-items: center; width: 26px; height: 24px; border-radius: 6px; color: rgba(255,255,255,.9); }
 .mi2 .i { width: 15px; height: 15px; fill: none; stroke: currentColor; stroke-width: 1.7; stroke-linecap: round; stroke-linejoin: round; }
 .mi2.bat i { width: 20px; height: 10px; border-radius: 3px; box-shadow: inset 0 0 0 1.4px rgba(255,255,255,.85); background: linear-gradient(90deg, #fff 0 62%, transparent 0) 2px 2px/16px 6px no-repeat; }
@@ -231,7 +225,7 @@ h1 { font: 500 68px/72px var(--sans); letter-spacing: -.035em; text-shadow: 0 2p
 
 @media (max-width: 1100px) { .jobs { grid-template-columns: repeat(2, minmax(0, 1fr)); } }
 @media (max-width: 700px) {
-  .jobs { grid-template-columns: 1fr; gap: 20px; } .mbx .mn, .mbx .clk, .mbx .mi2.bat { display: none; } .mbx .icons { left: 8px; right: 8px; gap: 0; justify-content: center; } .mbx { height: 470px; } .scr figcaption b { font-size: 32px; line-height: 40px; } .mpn { right: 10px; width: calc(100% - 20px); padding: 10px; } .wgrid { gap: 6px; } .wg { padding: 8px; min-height: 74px; } .wt b { font-size: 12px; } .wt .dm { font-size: 10.5px; letter-spacing: -.01em; text-overflow: clip; } .wbtn { display: none; } .mbx .mi2 { width: 20px; } .mbx .icons .mi2.ap + .mi2.ap { margin-left: 1px; } .mbx .mi2 .i { width: 14px; height: 14px; } .mbx .mi2.sy { display: none; }
+  .jobs { grid-template-columns: 1fr; gap: 20px; } .mbx .mn, .mbx .clk, .mbx .mi2.bat { display: none; } .mbx .icons { left: 8px; right: 8px; gap: 0; justify-content: center; } .mbx { height: 520px; } .mpn { right: 10px; width: calc(100% - 20px); padding: 10px; } .wgrid { gap: 6px; } .wg { padding: 8px; min-height: 74px; } .wt b { font-size: 12px; } .wt .dm { font-size: 10.5px; letter-spacing: -.01em; text-overflow: clip; } .wbtn { display: none; } .mbx .mi2 { width: 20px; } .mbx .icons .mi2.ap + .mi2.ap { margin-left: 1px; } .mbx .mi2 .i { width: 14px; height: 14px; } .mbx .mi2.sy { display: none; }
   .tl { grid-template-columns: minmax(0, 1fr); gap: 12px; } .tl li { padding: 18px; gap: 18px; } .tl .tx span { font-size: 14px; line-height: 20px; } .kc { min-width: 0; width: 88px; height: 64px; font-size: 26px; } .tl b { font-size: 15px; }
   .repl h2, .trust h2, .inst h2 { font-size: 34px; line-height: 40px; }
   .repl, .inst { padding-top: 64px; } .inst { padding-bottom: 72px; }
@@ -242,7 +236,6 @@ h1 { font: 500 68px/72px var(--sans); letter-spacing: -.035em; text-shadow: 0 2p
 .ftl { display: flex; align-items: center; gap: 20px; flex-wrap: wrap; } .ftl a { color: var(--ink2); transition: color .15s; } .ftl a:hover { color: var(--ink); }
 .jt em { font-style: normal; font-size: 12.5px; line-height: 18px; color: rgba(255,155,122,.85); }
 
-@media (min-width: 1181px) { .hero .alt { max-width: min(640px, calc(100vw - 560px)); } }
 @media (min-width: 861px) and (max-width: 1180px) { .hero { max-width: calc(100vw - 470px); } .hero h1 { font-size: clamp(44px, 6vw, 72px); line-height: 1.05; } .hero .sub { font-size: 22px; line-height: 30px; } }
 
 @media (prefers-reduced-motion: reduce) { .wg.on, .wg.on::after, .wg.on[data-i="4"] .wi svg, .wg.on .rec, .wg.on .wave2 i { animation: none; } }

diff --git a/site/play.js b/site/play.js
@@ -679,13 +679,11 @@
   // Plays once when it comes into view and stays on the open panel; the round button plays it again.
   (() => {
     const bars = document.getElementById('bars'); if (!bars) return;
-    const n = document.getElementById('bars-n'), again = document.getElementById('bars-again'), ap = $$('.mi2.ap', bars), wg = $$('.wg', bars);
-    const MANY = ap.length + ' apps';
+    const again = document.getElementById('bars-again'), ap = $$('.mi2.ap', bars), wg = $$('.wg', bars);
     ap.forEach((ic, k) => ic.style.setProperty('--k', k));
     const wOf = i => wg.find(w => +w.dataset.i === i);
-    const label = async t => { n.classList.add('flip'); await sleep(300); n.textContent = t; n.classList.remove('flip'); };
-    const end = () => { bars.className = 'bars b-one b-open b-done'; ap.forEach(ic => ic.classList.add('out')); wg.forEach(w => w.classList.add('on')); n.textContent = '1 app'; };
-    const reset = () => { bars.className = 'bars'; ap.forEach(ic => ic.classList.remove('out')); wg.forEach(w => w.classList.remove('on')); n.textContent = MANY; };
+    const end = () => { bars.className = 'bars b-one b-open b-done'; ap.forEach(ic => ic.classList.add('out')); wg.forEach(w => w.classList.add('on')); };
+    const reset = () => { bars.className = 'bars'; ap.forEach(ic => ic.classList.remove('out')); wg.forEach(w => w.classList.remove('on')); };
     const clearFlying = () => $$('.mi2.fly', document).forEach(f => f.parentNode && f.parentNode.removeChild(f));
     if (matchMedia('(prefers-reduced-motion: reduce)').matches) { end(); return; }
     const ORDER = [7, 0, 12, 5, 11, 2, 13, 8, 1, 10, 4, 9, 3, 6];
@@ -715,7 +713,7 @@
         await sleep(60 + (k * 29) % 60);
       }
       await Promise.all(all); bars.classList.remove('b-eat'); if (id !== gen) return;
-      bars.classList.add('b-done'); await label('1 app'); again.hidden = false; state = 'done';
+      bars.classList.add('b-done'); again.hidden = false; state = 'done';
     };
     const run = () => { state = 'run'; play(++gen); };
     // Scrolled away mid-way: jump to the end, so it never waits half-done
